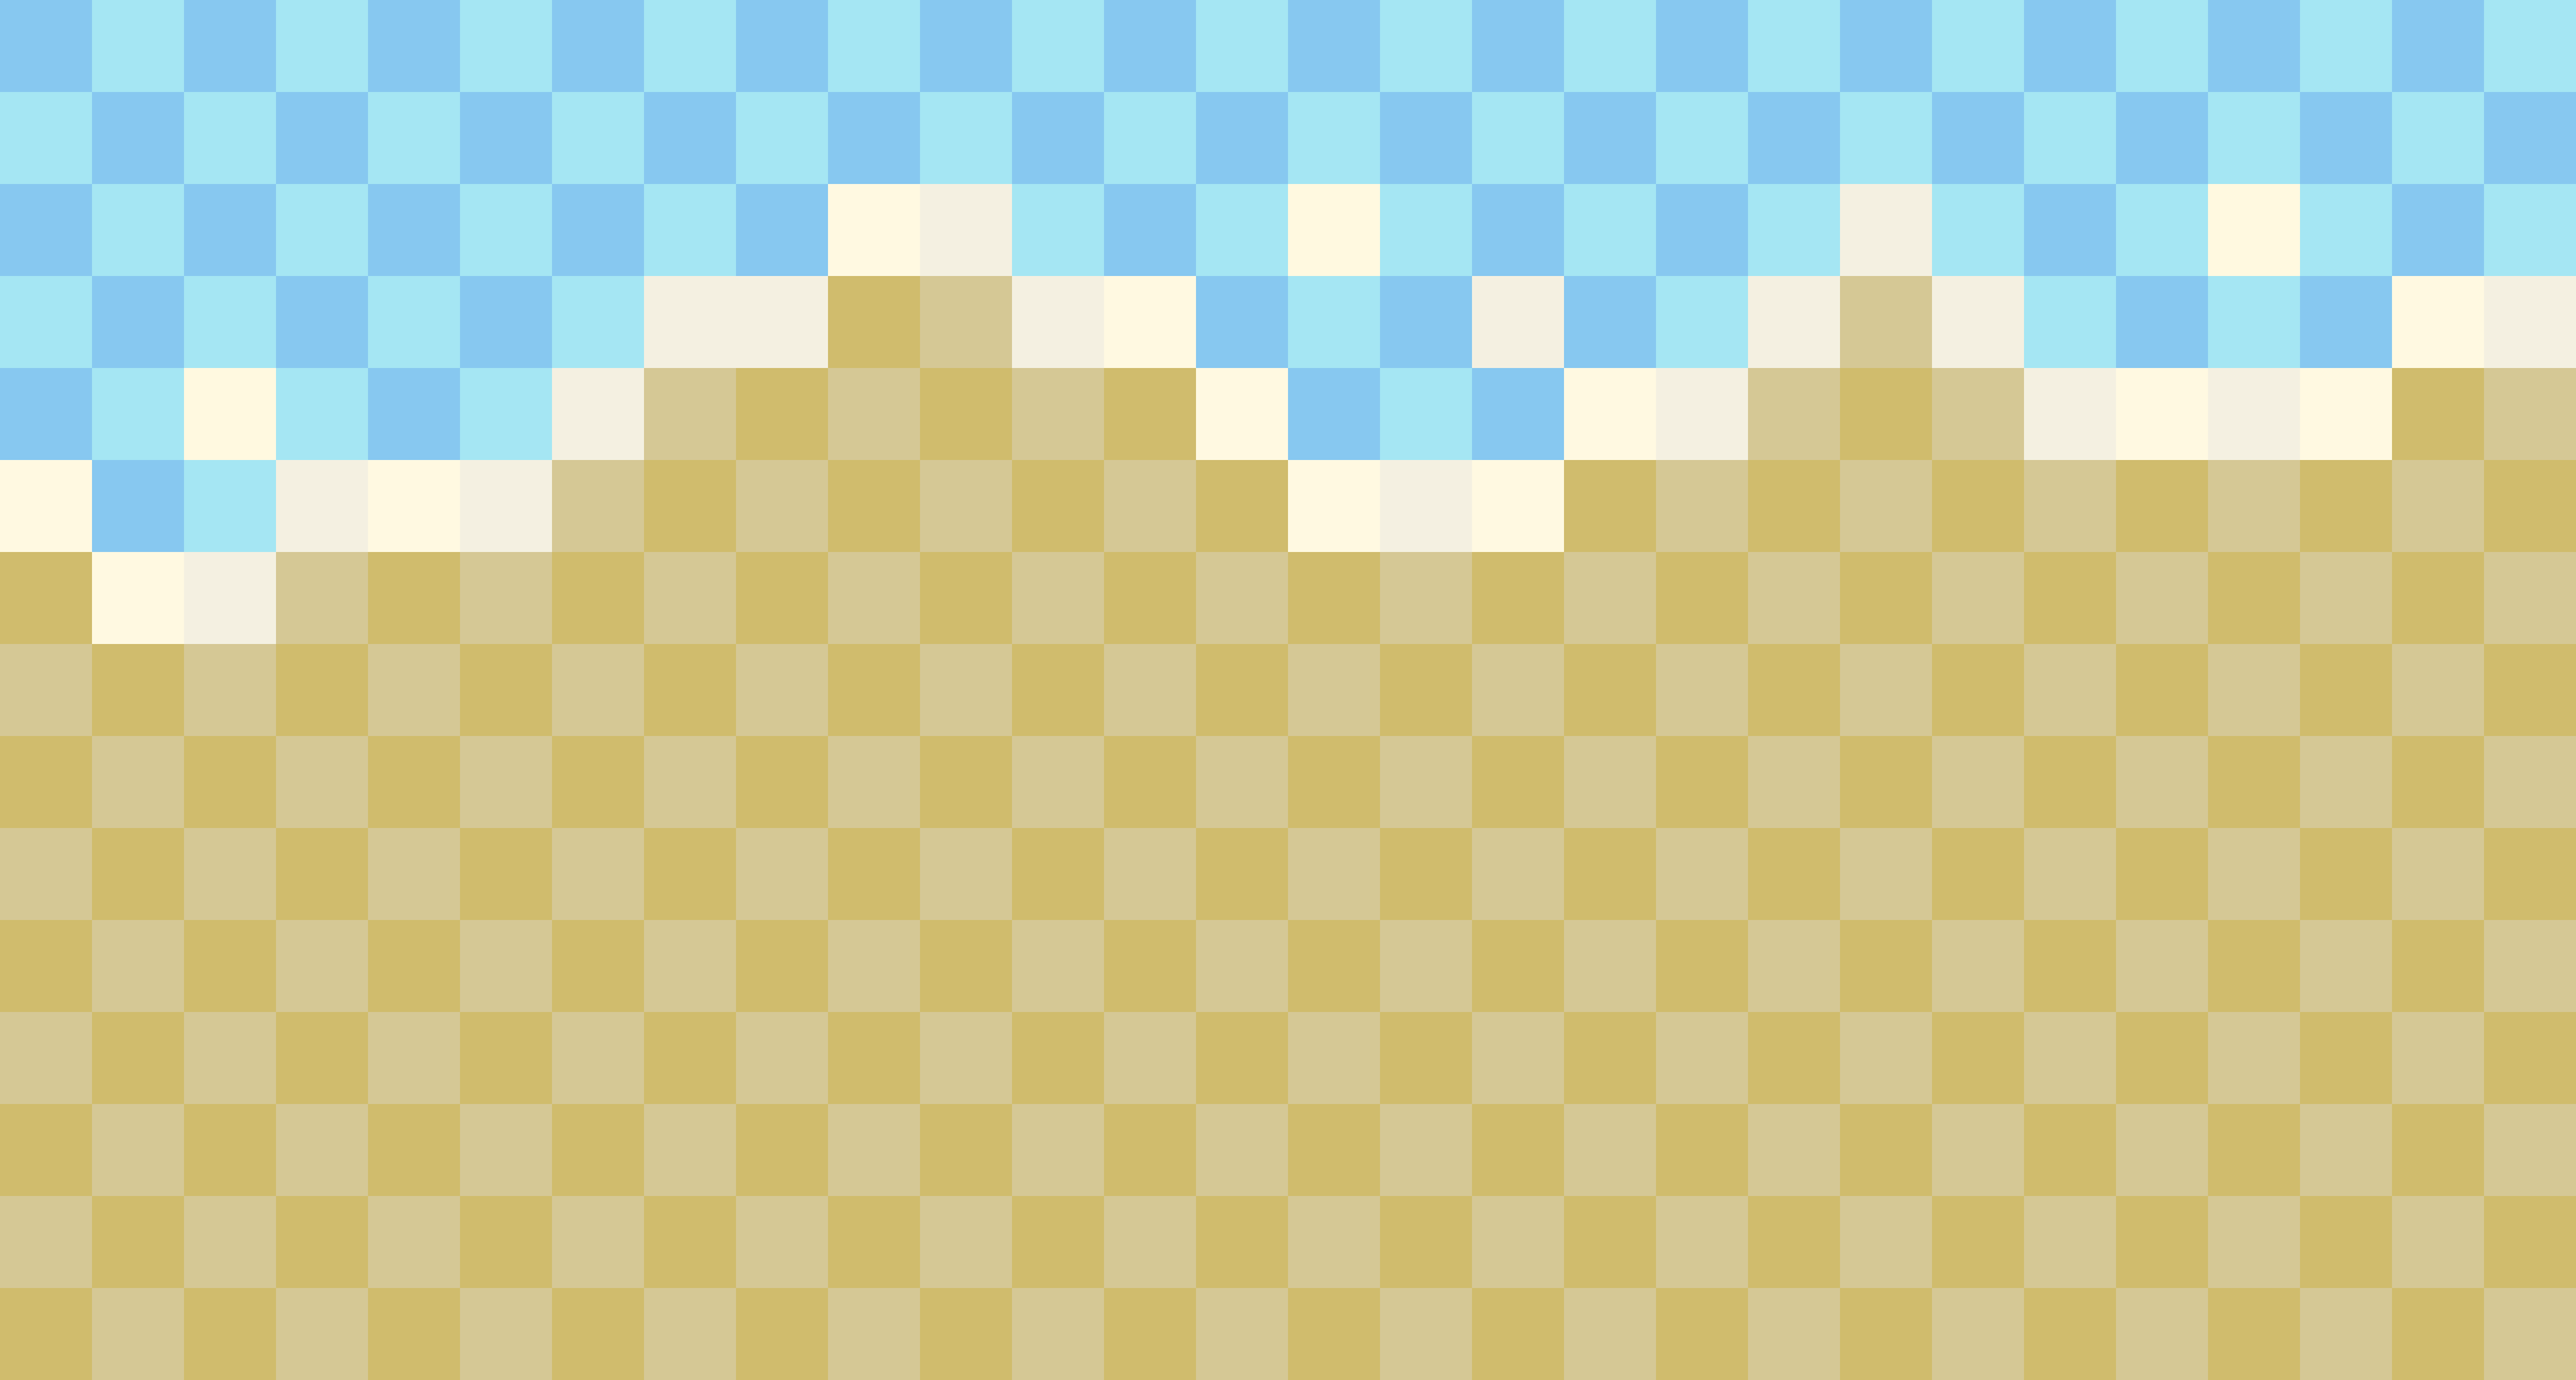
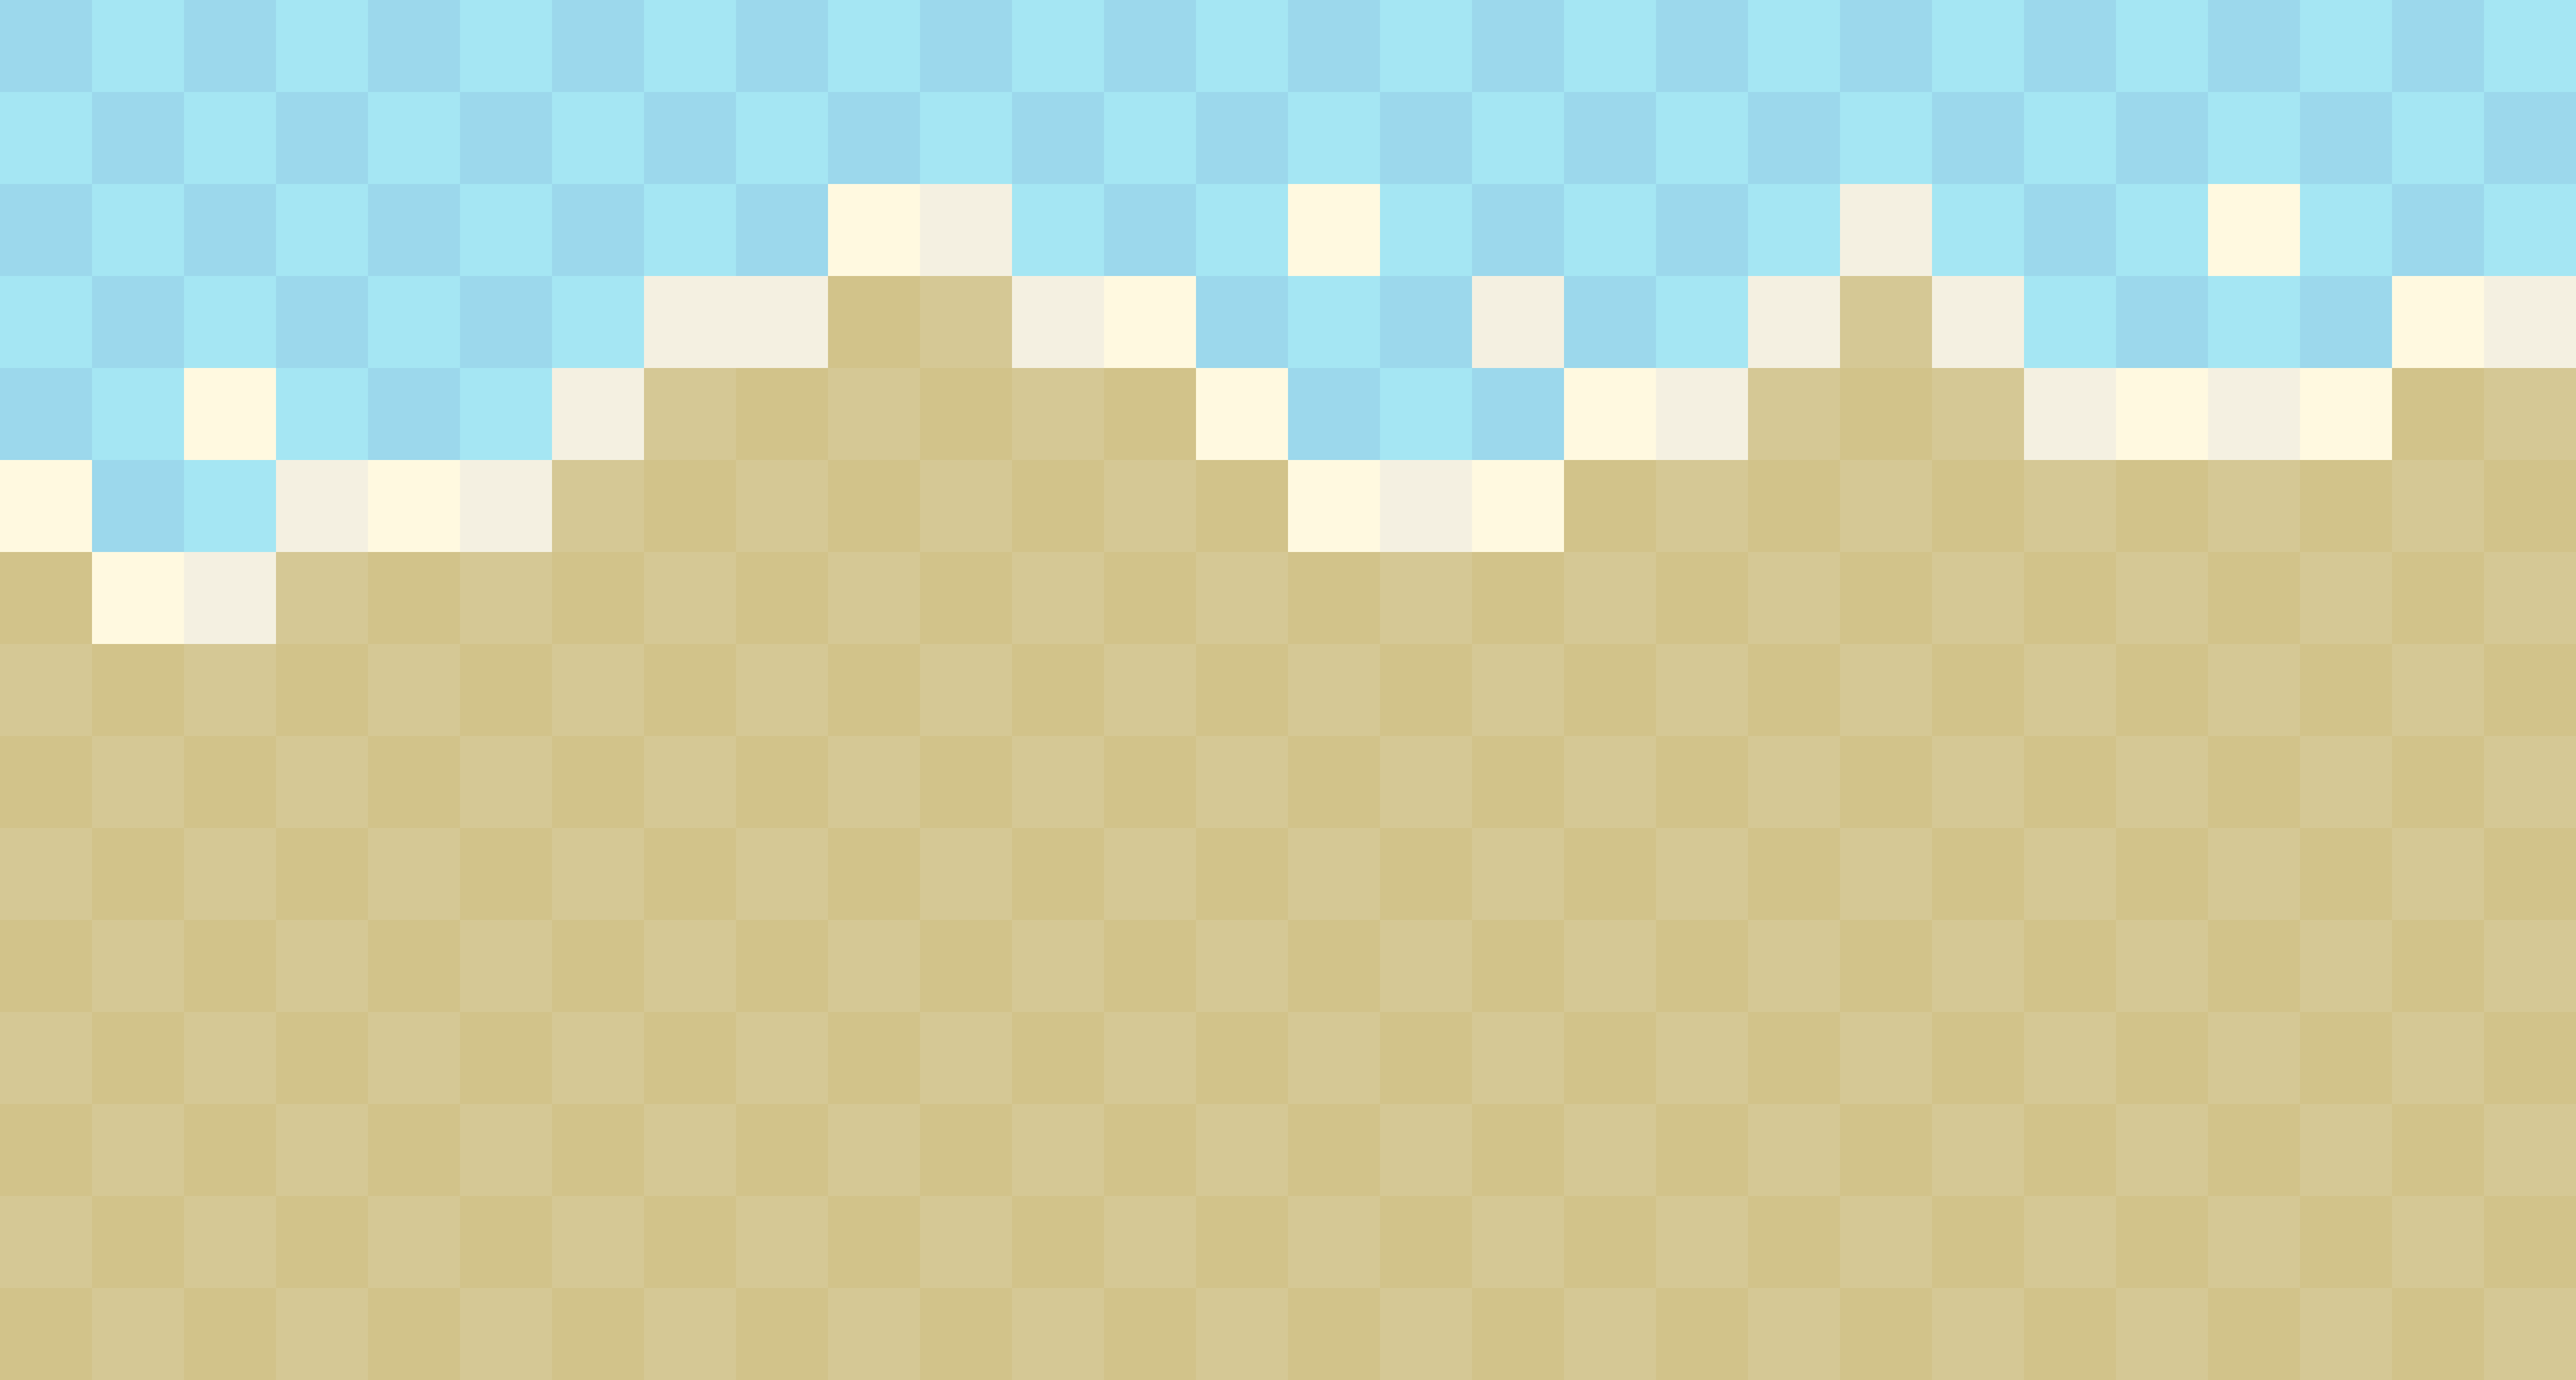
jul 24

diff --git a/snake.js b/snake.js
@@ -17,8 +17,15 @@ const snakeHeadImg = new Image();
 snakeHeadImg.src = './Snake/Head.png';
 
 // Background Image (Canvas)
+const mapImages = [
+    './BGS/Lava.png',
+    './BGS/Crossroads.png',
+    './BGS/Space.png',
+    './BGS/Ice.png',
+    './BGS/Summer.png'
+];
+let currentMap = '';
 const backgroundImage = new Image();
-backgroundImage.src = './BGS/Lava.png';
 
 let snakeX = blockSize * 5;
 let snakeY = blockSize * 5;
@@ -63,6 +70,9 @@ window.onload = function() {
     // Set up replay button
     replayButton = document.getElementById("replayButton");
     replayButton.addEventListener("click", resetGame);
+
+    resetGame();
+
 };
 
 function update() {
@@ -219,6 +229,8 @@ function endGame() {
 
 function resetGame() {
     document.getElementById("gameOverPopup").style.display = "none";
+    
+    // Reset game state
     snakeX = blockSize * 5;
     snakeY = blockSize * 5;
     velocityX = 0;
@@ -227,10 +239,22 @@ function resetGame() {
     gameOver = false;
     currentDirection = null;
     nextDirection = null;
+    
+    // Load random map
+    loadRandomMap();
+    
+    // Place new food
     placeFood();
+    
+    // Hide cursor again
     document.body.style.cursor = 'none';
     board.style.cursor = 'none';
-    update();
+    
+    // Redraw the initial state
+    // Note: We need to wait for the new background image to load
+    backgroundImage.onload = function() {
+        update();
+    };
 }
 
 function placeFood() {
@@ -301,4 +325,11 @@ function checkAppleCollision() {
         // Play eating sound
         eatSound.currentTime = 0;
     }
+}
+
+function loadRandomMap() {
+    // Randomly select a map
+    const randomIndex = Math.floor(Math.random() * mapImages.length);
+    currentMap = mapImages[randomIndex];
+    backgroundImage.src = currentMap;
 }
